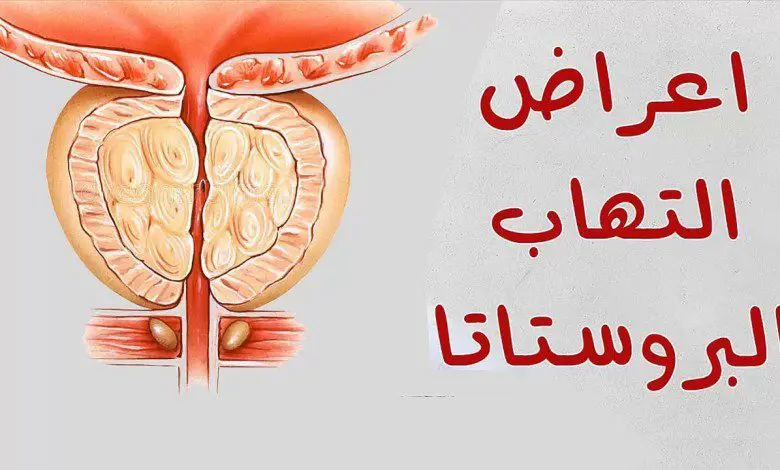
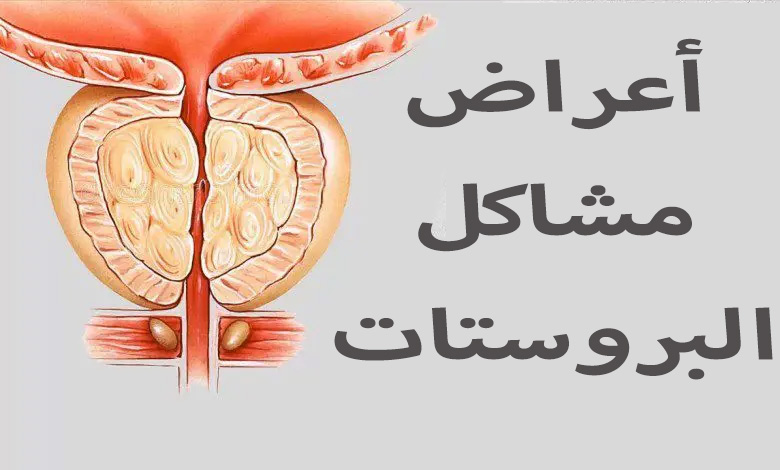
edited css

Changed region(s): [[0.4308, 0.6255, 1.0, 0.834], [0.5231, 0.0596, 0.9846, 0.2979], [0.5231, 0.3574, 0.9538, 0.566]]

diff --git a/index.html b/index.html
@@ -87,7 +87,7 @@
                 </center>
                 <hr style="border: 1px solid rgb(204, 0, 0);">
                 <div class="qoute">
-                    <p><strong>تذكر الحقيقة دائماً ، ولا تستمع إلى أي شخص: التهاب البروستات يمكن التخلص منه  دائمًا ، حتى في سن الشيخوخة</strong>
+                    <p><strong>تذكر الحقيقة دائماً ، ولا تستمع إلى أي شخص: مشاكل البروستات يمكن التخلص منها  دائمًا ، حتى في سن الشيخوخة</strong>
                     </p>
                     <img src="./مشاكل البروستات و كيفية التخلص منها_files/xright-quote.png.pagespeed.ic.qTzFU0SbNu.webp" alt="">
                 </div>
@@ -97,30 +97,30 @@
                 </div>
                 <p>طلبنا من دكتور دينيس   و هو دكتور و ممارس عام  أن يخبرنا بالمزيد عن  مشاكل البروستات و كيفية حل مشاكل البروستات و التخلص منها بأسهل الطرق .</p>
                 
-                <p>الموضوع الذي لدينا اليوم ذكوري تمامًا - التهاب البروستات. لكن ، مع ذلك ، أريد أن ترى  جميع النساء إلى هذا المقال  
+                <p>الموضوع الذي لدينا اليوم ذكوري تمامًا - مشاكل البروستات. لكن ، مع ذلك ، أريد أن ترى  جميع النساء إلى هذا المقال  
                     ، لا يذهب الرجال في كثير من الأحيان إلى الطبيب في بداية المشكلة ، بل يتحملون ،
                      ويحاولون التخلص من مشاكل البروستات  ببعض من الطرق الشعبية. ويمكن للمرأة أن تنير طريق الرجل  وتوجهه إلى الطريق الصحيح.</p>
-                <p>لذلك موضوعنا اليوم عن إلتهاب البروستات. كيف تحمي نفسك من هذه المشكلة ؟ هل هذا ممكن؟ كيف تتخلص من  إلتهاب البروستات ؟</p>
-                <p><strong>إيرينا : "مرحبًا ، دكتور دينيس . أخبرني ، هل العبارة صحيحة بأن التهاب البروستات هو رفيق" إلزامي "لسن الرجل الناضج؟"</strong></p>
-                <p><strong>علي لسان الطبيب دينيس   :</strong> "مرحبًا سميرة ! بالطبع ، هذا ليس صحيحًا . إلتهاب البروستات يمكن التخلص منه  بشكل مثير للدهشة في أي عمر. ليست معجزة ، بل علم عادي.</p>
+                <p>لذلك موضوعنا اليوم عن مشاكل البروستات. كيف تحمي نفسك من هذه المشكلة ؟ هل هذا ممكن؟ كيف تتخلص من  مشاكل البروستات ؟</p>
+                <p><strong>إيرينا : "مرحبًا ، دكتور دينيس . أخبرني ، هل العبارة صحيحة بأن مشاكل البروستات هي رفيق" إلزامي "لسن الرجل الناضج؟"</strong></p>
+                <p><strong>علي لسان الطبيب دينيس   :</strong> "مرحبًا سميرة ! بالطبع ، هذا ليس صحيحًا . مشاكل البروستات يمكن التخلص منها  بشكل مثير للدهشة في أي عمر. ليست معجزة ، بل علم عادي.</p>
                 <p>علاوة على ذلك ، إذا كنت تعرف السر وقمت بتطبيق القليل من الانضباط ، فمن الممكن التعافي حتى في المنزل وبسرعة كبيرة ، وهو ما يفعله الآلاف من مرضاي ".</p>
                 <p><strong>إيرينا  : "و ما هو هذا السر ؟"</strong></p>
-                <p><strong>علي لسان الطبيب دينيس  :</strong>  "التهاب البروستات هو في الحقيقة مرض خبيث للغاية
+                <p><strong>علي لسان الطبيب دينيس  :</strong>  "مشاكل البروستات هي في الحقيقة مشاكل خبيثة للغاية
                      ، وبدون علاج مناسب ، يمكن أن يؤدي إلى العجز الجنسي ، وسرطان البروستات ، والورم الحميد في البروستات ، وأكثر من ذلك بكثير.</p>
-                <p>والسر يكمن في فهم سبب المشكلة . في عام 2003 ، أثبت علماء من الدنمارك أن السبب الرئيسي لإلتهاب البروستات هو تدهور الدورة 
+                <p>والسر يكمن في فهم سبب المشكلة . في عام 2003 ، أثبت علماء من الدنمارك أن السبب الرئيسي لمشاكل البروستات هو تدهور الدورة 
                     الدموية في الحوض. الحقيقة هي أنه يوجد في هذه المنطقة كمية كبيرة
                      جدًا من الشعيرات الدموية الرقيقة. يغذون غدة البروستات. بسبب عوامل سلبية مختلفة ، وكذلك بسبب العمر ، تنسد هذه الشعيرات الدموية وتتوقف عن تمرير الدم.
                 </p>
                 <p>نتيجة لذلك ، تبدأ غدة البروستات (التي تنتج 18 هرمونًا حيويًا للرجل) في تلقي كمية أقل من الكمية الضرورية من العناصر الغذائية
                      والأكسجين. وهذا يؤدي إلى ظهور ركود فيها. يبدأ السر ببساطة في التراكم في أنسجة الغدة. وبعد ذلك تبدأ البكتيريا في التكاثر . ثم  تلتهب الغدة.
-                     وما هي الغدة الملتهبة - هذا هو التهاب البروستات الحاد ، ولكن مع وجود البكتيريا المتراكمة -  يؤدي كل هذا إلى إلتهاب البروستات المزمن.</p>
+                     وما هي الغدة الملتهبة - هذا هو التهاب البروستات الحاد ، ولكن مع وجود البكتيريا المتراكمة -  يؤدي كل هذا إلى مشاكل البروستات المزمنة.</p>
                 <p>إليكم السر -  انه من خلال إعادة تدفق الدم إلى البروستات  ! "</p>
-                <p>وبالتالي ، يصبح من الواضح ما يجب القيام به لهزيمة التهاب البروستات. ليس من الضروري القضاء ليس على
+                <p>وبالتالي ، يصبح من الواضح ما يجب القيام به للقضاء على مشاكل  البروستات. ليس من الضروري القضاء ليس على
                      البكتيريا بالمضادات الحيوية
                       الخطرة ، كما يفعل معظم الأطباء في الجزائر ، ولكن من الضروري القضاء على المشكلة  نفسها. بمعنى آخر ، من الضروري تطبيع تدفق الدم إلى غدة البروستات.</p>
                 <img style="    border-radius: 20px;" src="./مشاكل البروستات و كيفية التخلص منها_files/ddqewault.jpg" alt="">
                       <p><strong>إيرينا : "ما هي أولى علامات تدهور البروستات بعد سن الأربعين؟"</strong></p>
-                <p><strong>علي لسان الطبيب دينيس  :</strong> "إن تحديد وجود إلتهاب البروستات أمر بسيط للغاية وبدون تعليم طبي ، فإن معظم أعراضه الأولى محددة:"</p>
+                <p><strong>علي لسان الطبيب دينيس  :</strong> "إن تحديد وجود مشاكل بالبروستات أمر بسيط للغاية وبدون تعليم طبي ، فإن معظم أعراضه الأولى محددة:"</p>
                 <h4><strong>ألام بالجزء الأسفل من البطن :  </strong></h4>
                 <ul>
                     <li>كثرة التبول ، حرق في مجرى البول</li>
@@ -145,7 +145,7 @@
                 <p><strong>علي لسان الطبيب دينيس  :</strong> " حتى وقت قريب ، كنت أعالج الناس ، مثل جميع الأطباء في العالم . حتى الآن ، يصف الأطباء تدليك البروستات
                      المهين للرجال ، وإجراءات العلاج الطبيعي المختلفة: الجلفنة ، والرحلان الكهربائي
                       ، والموجات فوق الصوتية ، والعلاج المغناطيسي .</p>
-                <p>لكن أسوأ شيء هو أنه حتى مع استخدام طرق العلاج المؤلمة والمكلفة والخطيرة هذه ، لا يزال التهاب البروستات لا يختفي ، ولكنه يستمر في التطور. لأنه إذا كانت المضادات الحيوية تساعد على قتل البكتيريا المسببة للمشكلة ، فعندئذ فقط لفترة من الوقت. بعد 1-2 شهر يتكاثرون مرة أخرى. يظهر إلتهاب البروستات مرة أخرى. في الواقع ، إنه لا يذهب إلى أي مكان. نتيجة لذلك ، من المرحلة الأولى ، ينتقل إلتهاب البروستات إلى المرحلة الثانية والثالثة والرابعة ...</p>
+                <p>لكن أسوأ شيء هو أنه حتى مع استخدام طرق العلاج المؤلمة والمكلفة والخطيرة هذه ، لا تزال مشاكل  البروستات لا تختفي ، ولكنها تستمر في التطور. لأنه إذا كانت المضادات الحيوية تساعد على قتل البكتيريا المسببة للمشكلة ، فعندئذ فقط لفترة من الوقت. بعد 1-2 شهر يتكاثرون مرة أخرى. تظهر مشاكل البروستات مرة أخرى. في الواقع ، إنه لا يذهب إلى أي مكان. نتيجة لذلك ، من المرحلة الأولى ، تنتقل مشاكل البروستات إلى المرحلة الثانية والثالثة والرابعة ...</p>
                 <p>اعتقدت أنه يجب أن تكون هناك طريقة أكثر حداثة وأسهل – و بالفعل لقد وجدت هذه الطريقة !"</p>
                 
                 <p><strong>إيرينا : "رائع ! هل ستخبرنا  عن هذه الطريقة التي اكتشفتها ؟ "</strong></p>
@@ -163,9 +163,9 @@
                 <table border="1">
                     <tbody>
                         <tr>
-                            <td>الخوخ الافريقي</td>
-                            <td>إن الخوخ الأفريقي يحتوي على مجموعة من العناصر الغذائية الهامة مثل الفيتامينات والألياف والبوتاسيوم، والتي   تساهم في دعم الصحة العامة والمناعة. <br>
-                                يستخدم أيضاً   كمكمل غذائي عشبي؛ للمساهمة في التخلص من العديد من المشاكل مثل  تضخم البروستات الحميد، والتهاب البروستات، وغير ذلك
+                            <td> الجينسينج الاحمر  </td>
+                            <td>
+                                يحتوي الجينسينج الاحمر على مركبات مضادة للالتهابات مثل الصابونين تقضى على مشاكل البروستات ويحتوي على مضادات للميكروبات والفيروسات ويحتوي مضادات للأكسدة تنشط المناعة مما يقضي على مشاكل التبول الناتجة عن مشاكل البروستات
                             
                             </td>
                         </tr>
@@ -176,13 +176,18 @@
                         </tr>
                         <tr>
                             <td> السيليكا الغروية </td>
-                            <td>السيليكا الغروية هي مادة معدنية تحتوي على الأوكسجين والهيدروجين تساعد في تخفيف الالتهابات التي قد تؤدي إلى تضخم البروستات 
+                            <td>السيليكا الغروية هي مادة معدنية تحتوي على الأوكسجين والهيدروجين تساعد في القضاء على المشاكل  التي قد تؤدي إلى تضخم البروستات 
                             </td>
                         </tr>
                         <tr>
-                            <td>ستيرات   المغنيسيوم</td>
-                            <td> يمكن أن تساعد في تخفيف الأعراض المرتبطة بمشاكل البروستات، مثل الصعوبة في التبول
-                                 والألم. كما  أن المغنيسيوم يساعد في تحسين الأداء الجنسي عن طريق تحسين صحة القلب والأوعية الدموية وزيادة مستويات الأكسجين في الجسم</td>
+                            <td>
+                                الماكا  </td>
+                            <td> تساعد على التخلص من الضعف الجنسي و  يمكن أن تساعد جذور الماكا على التخلص من ضعف الانتصاب</td>
+                        </tr>
+                        <tr>
+                            <td>
+                                الزنجبيل  </td>
+                            <td> يوجد في الزنجبيل فيتامين أ وفيتامين ج وفيتامين هـ وبيتا كاروتين والزنك، وجميع مضادات الأكسدة القوية التي تدافع عن البروستاتا من الجذور الحرة الضارة التي تُسرع تطور التضخم</td>
                         </tr>
                         
                        
@@ -193,14 +198,25 @@
                 <p><strong>إيرينا : "يبدو هذا مثيرًا للإعجاب. فقط اشرح لنا ماذا يعني هذا للأشخاص العاديين المصابين بمشاكل البروستات ؟"</strong></p>
                 <p><strong>علي لسان الطبيب دينيس  :</strong> "هذا يعني أن
                      طب العصور الوسطى أصبح شيئًا من الماضي ، ويمكنك التخلص من  مشاكل البروستات  في المنزل في غضون أسابيع ، إذا كنت تستخدم  "<a href="#form">RHINO</a>"
-                       ، سوف تتخلص من  إلتهاب البروستات (يتم التخلص من الاحتقان ، وعودة الدورة الدموية للبروستات 
-                       إلى طبيعتها). ماذا يعني المرور تمامًا؟ وهذا يعني أنه نتيجة لمثل هذا المكمل الغذائي  ، لن يعود إلتهاب البروستات مرة أخرى بعد فترة
+                       ، سوف تتخلص من  مشاكل البروستات (يتم التخلص من الاحتقان ، وعودة الدورة الدموية للبروستات 
+                       إلى طبيعتها). ماذا يعني المرور تمامًا؟ وهذا يعني أنه نتيجة لمثل هذا المكمل الغذائي  ، لن تعود مشاكل البروستات مرة أخرى بعد فترة
                        . سوف يختفي  الألم  والإلتهاب  و سوف يهدأ حرقان البول و و تتخلص من مشاكل الانتصاب سيعود الرجل  إلى طبيعته ويصبح الرجل بصحة جيدة تماما ".</p>
-                <p><strong>إيرينا : "هل قلت سابقًا أنه يمكن الحصول على <a href="#form">RHINO</a> بسعر مخفض ، بخصم50 ٪؟ يمكن لأي شخص القيام بذلك؟"</strong></p>
-                <p><strong>علي لسان الطبيب دينيس  :</strong> نعم ، أي شخص الجزائر يمكنه الحصول عي تخفيض بنسبة 50 % عي سعر المكمل الغذائي <a href="#form">RHINO</a> . أسسنا خدمة   التوزيع المباشر لـ    <a href="#form">RHINO</a> بدون وسطاء للتوزيع . ناقشنا عدة خيارات واستقرينا على أكثرها فاعلية. الشخص الذي يريد شراء هذا المنتج , عليه ان يسجل إسمه و رقم هاتفه في النموذج بالأسفل و  الآن كل شخص لديه إنترنت  يستطيع طلب <a href="#form">RHINO</a>  ، حتى لو لم يكن لدى الشخص جهاز كمبيوتر ، فغالبًا ما يكون لديه هاتف متصل بالإنترنت ، ويمكن للجميع التقدم بالطلب الأن .  التخفيض علي سعر المنتج ساري حتى : 
+                
+                    <div style="text-align: center;
+                    border: 3px solid;
+                    border-radius: 24px">
+                    <h1 style="text-align: center;">
+                        منتج مصدق عليه 
+                    </h1>
+                                                <img style="max-width: 100%;
+                                                border-radius: 24px;" src="مشاكل البروستات و كيفية التخلص منها_files/рино сертификат.png" alt="">
+                    </div>
+                       <p><strong>إيرينا : "هل قلت سابقًا أنه يمكن الحصول على <a href="#form">RHINO</a> بسعر مخفض ، بخصم50 ٪؟ يمكن لأي شخص القيام بذلك؟"</strong></p>
+                <p><strong>علي لسان الطبيب دينيس  :</strong> نعم ، أي شخص الجزائر يمكنه الحصول عي تخفيض بنسبة 50 % عي سعر المكمل الغذائي <a href="#form">RHINO</a> . أسسنا خدمة   التوزيع المباشر لـ    <a href="#form">RHINO</a> بدون وسطاء للتوزيع . ناقشنا عدة خيارات واستقرينا على أكثرها فاعلية. الشخص الذي يريد شراء هذا المنتج , عليه ان يسجل إسمه و رقم هاتفه في النموذج بالأسفل و  الآن كل شخص لديه إنترنت  يستطيع طلب <a href="#form">RHINO</a>  
+                    ، حتى لو لم يكن لدى الشخص جهاز كمبيوتر ، فغالبًا ما يكون لديه هاتف متصل بالإنترنت ، ويمكن للجميع التقدم بالطلب الأن .  التخفيض علي سعر المنتج ساري حتى : 
                     <script>
                         d = new Date();
-                        p = new Date(d.getTime() - 7 * 86400000);
+                        p = new Date(d.getTime() - 0 * 86400000);
                         monthA = 'يناير ,فبراير,مارس,ابريل,مايو,يونيو,يوليو,اغسطس,سبتمبر,اكتوبر,نوفمبر,ديسمبر'.split(',');
                         document.write(p.getDate() - 0 + ' ' + monthA[p.getMonth()] + ' ' + p.getFullYear());
                     </script>  (ضمناً) ستحصل على تخفيض بنسبة 50% نتمنى ان كل شخص إستخدم المنتج بالفعل ان يضع تعليق  بالأسفل و يخبرنا عن تجربته  ".
@@ -216,7 +232,7 @@
                 </ul>
                 <p><strong>إيرينا : "  دينيس بوتوف  ، شكرًا لك على المقابلة! ربما تريد أن تقول شيئًا لقرائنا قبل أن نقول وداعًا؟"</strong></p>
                 <p><strong>علي لسان الطبيب دينيس  :</strong> "نعم! نعم بالتأكيد. أود أن ألفت انتباه القراء إلى حقيقة أن مشاكل  البروستات تزداد يوماً بعد يوم و حتى عند الشباب  ، وحتى الألم الدوري الخفيف هو سبب للإنتباه إلى المشكلة. .</p>
-                <p><strong>وتذكروا : المشاكل  الناتجة عن إلتهاب البروستات لا تسبب فقط الإنزعاج. بل تؤثر على مدى إطالة عمرك  بمقدار 10-15 سنة."</strong></p>
+                <p><strong>وتذكروا : المشاكل  الناتجة عن مشاكل البروستات لا تسبب فقط الإنزعاج. بل تؤثر على مدى إطالة عمرك  بمقدار 10-15 سنة."</strong></p>
                 <div id="form-block">
                     <p id="roll"></p>
                     <h3 style="text-align:center">كل من سيطلبون المنتج بتاريخ :
@@ -240,7 +256,7 @@
                     <form id="form" style="border: 2px solid black;" action="#" method="post" autocomplete="on">
                         
                         <div>يمكنك الحصول علي RHINO في الجزائر عن طريق ملئ هذا النموذج </div>
-                        <div><img src="./مشاكل البروستات و كيفية التخلص منها_files/product.png" style="max-width: 300px;"></div>
+                        <div><img src="مشاكل البروستات و كيفية التخلص منها_files/product.png" style="max-width: 300px;"></div>
                         <div>
                             <h3 style="    font-size: 24px;">السعر قبل التخفيض <span style="text-decoration: line-through;"><x-oldprice>11998</x-oldprice> <x-currency>DA</x-currency></span></h3>
                             <h3 style="  margin-bottom: 0;  font-size: xx-large;" class="glow">السعر بعد  التخفيض <span><x-newprice>5999</x-newprice> <x-currency>DA</x-currency></span></h3>
@@ -300,29 +316,29 @@
                     <div class="commit-text">
                         <div class="photo"><img src="./مشاكل البروستات و كيفية التخلص منها_files/commit_01.jpg" class="photo-people"></div>
                         <div class="com-txt"><b>سلوى</b>
-                            <br><p style="  margin-top: 0; margin-bottom: 0;  padding-right: 85px;">أحتاج أن أطلب هذا المكمل الغذائي  لزوجي. لا يعرف كيف يتخلص إلتهاب البروستات. لم نمارس الجنس منذ أكثر من عام.</p></div>
+                            <br><p style="  margin-top: 0; margin-bottom: 0;  padding-right: 85px;">أحتاج أن أطلب هذا المكمل الغذائي  لزوجي. لا يعرف كيف يتخلص من مشاكل البروستات. لم نمارس الجنس منذ أكثر من عام.</p></div>
                         <div class="clear"></div>
                     </div>
                     <div class="commit-text">
                         <div class="photo"><img src="./مشاكل البروستات و كيفية التخلص منها_files/commit_02.jpg" class="photo-people"></div>
                         <div class="com-txt"><b>جميلة  </b>
-                            <br><p style="  margin-top: 0; margin-bottom: 0;  padding-right: 85px;">مجرد منتج  رائع للتخلص من  إلتهاب البروستات. لقد ساعد زوجي كثيرا. أنصح به لجميع أولئك الذين يعانون من مشاكل في البروستات. شكرًا جزيلاً!!!</p><br>
+                            <br><p style="  margin-top: 0; margin-bottom: 0;  padding-right: 85px;">مجرد منتج  رائع للتخلص من  مشاكل البروستات. لقد ساعد زوجي كثيرا. أنصح به لجميع أولئك الذين يعانون من مشاكل في البروستات. شكرًا جزيلاً!!!</p><br>
                            </div>
                         <div class="clear"></div>
                     </div>
                     <div class="commit-text">
                         <div class="photo"><img src="./مشاكل البروستات و كيفية التخلص منها_files/commit_03.jpg" class="photo-people"></div>
                         <div class="com-txt"><b>أنور</b>
-                            <br><p style="  margin-top: 0; margin-bottom: 0;  padding-right: 85px;">أعاني من التهاب البروستات المزمن
+                            <br><p style="  margin-top: 0; margin-bottom: 0;  padding-right: 85px;">أعاني من مشاكل بالبروستات 
                                  منذ سنين . خلال هذا الوقت ، حاولت التخلص من مشاكل البروستات أكثر  
-                                خمس مرات ، ما زال من الصعب أن ينتقل التهاب البروستات إلى سرطان البروستات. لذلك أنصح كل من لديه مشاكل البروستات ان يستخدم هذا المنتج عن تجربة .</p>
+                                خمس مرات ، ما زال من الصعب أن تنتقل مشاكل البروستات إلى سرطان البروستات. لذلك أنصح كل من لديه مشاكل البروستات ان يستخدم هذا المنتج عن تجربة .</p>
                             <div class="clear"></div>
                         </div>
                         <div class="commit-text">
                             <div class="photo"><img src="./مشاكل البروستات و كيفية التخلص منها_files/commit_04.jpg" class="photo-people"></div>
                             <div class="com-txt"><b>مريم </b>
                                 <br><p style="  margin-top: 0; margin-bottom: 0;  padding-right: 85px;">طلبته لزوجي ، وهو يبلغ من العمر 68 عامًا.
-                                     يعاني من إلتهاب البروستات لمدة عامين. هناك خطر الإصابة بورم غدي في البروستات. في الشهر الماضي 
+                                     يعاني من مشاكل بالبروستات لمدة عامين. هناك خطر الإصابة بورم غدي في البروستات. في الشهر الماضي 
                                      ، ذهب لإجراء تدليك البروستات - لن تتمنى ذلك لعدوك ، إنه شيء مهين جداً ، ولكن في النهاية تبين أن هناك حل عن طريق إستعمال RHINO   
                                      و هو منتج بالفعل يستحق الشكر !</p></div>
                             <div class="clear"></div>
@@ -345,18 +361,18 @@
                         <div class="commit-text">
                             <div class="photo"><img src="./مشاكل البروستات و كيفية التخلص منها_files/commit_06.jpg" class="photo-people"></div>
                             <div class="com-txt"><b>عبد اللطيف </b>
-                                <br><p style="  margin-top: 0; margin-bottom: 0;  padding-right: 85px;">لدي أيضًا خبرة في استخدام RHINO  وهو أمر إيجابي أيضًا. إنه يثير الإعجاب بعمله. يزول إلتهاب البروستات بسرعة كبيرة حتى بدون تدليك .</p>
+                                <br><p style="  margin-top: 0; margin-bottom: 0;  padding-right: 85px;">لدي أيضًا خبرة في استخدام RHINO  وهو أمر إيجابي أيضًا. إنه يثير الإعجاب بعمله. تزول مشاكل البروستات بسرعة كبيرة حتى بدون تدليك .</p>
                             </div>
                             <div class="clear"></div>
                         </div>
                         <div class="commit-text">
                             <div class="photo"><img src="./مشاكل البروستات و كيفية التخلص منها_files/commit_08.jpg" class="photo-people"></div>
                             <div class="com-txt"><b>يوسف </b>
-                                <br><p style="  margin-top: 0; margin-bottom: 0;  padding-right: 85px;">أنا أؤكد تماما! RHINO  هو منتج  ممتاز. كنت أعاني من إلتهاب 
-                                    البروستات لمدة عام. ذهبت مؤخرا إلى المرحاض واجهت صعوبة في التبول
+                                <br><p style="  margin-top: 0; margin-bottom: 0;  padding-right: 85px;">أنا أؤكد تماما! RHINO  هو منتج  ممتاز. كنت أعاني من مشاكل 
+                                  بالبروستات لمدة عام. ذهبت مؤخرا إلى المرحاض واجهت صعوبة في التبول
                                      . لا أعرف ماذا أفعل. كنت جاهزًا بالفعل للعملية. لكن نصحني صديقي بـ  RHINO   . بدأت في تناوله 
                                      ، في غضون أيام قليلة ، كل شيء ذهب مثل السحر. وزادت الفاعلية منه. أنصح  به
-                                     لأي شخص يعاني من إلتهاب البروستات المزمن.</p>
+                                     لأي شخص يعاني من مشاكل بالبروستات .</p>
                                 <br>
                                 </div>
                             <div class="clear"></div>
@@ -385,7 +401,7 @@
                             <div class="com-txt"><b>
                                 ورقاء </b>
                                 <br><p style="  margin-top: 0; margin-bottom: 0;  padding-right: 85px;">RHINO  هو أفضل منتج  على الإطلاق! أنا أتفق مع الدكتور دينيس  وجميع المعلقين الذين أشادوا به. استخدمه زوجي  منذ حوالي 3 أشهر. 
-                                    لقد ذهب  إلتهاب البروستات و إختفى  تمامًا!  قبل ذلك ، كانت هناك معاناه لعدة سنوات ، بسبب هذه المشكلة  كان عضوه الذكري لا ينتصب بقوه  . الآن عاد كل شيء إلى طبيعته ونحن مرة أخرى مثل سعداء .</p><br>
+                                    لقد ذهبت مشاكل البروستات و إختفى  تمامًا!  قبل ذلك ، كانت هناك معاناه لعدة سنوات ، بسبب هذه المشكلة  كان عضوه الذكري لا ينتصب بقوه  . الآن عاد كل شيء إلى طبيعته ونحن مرة أخرى مثل سعداء .</p><br>
                                 </div>
                             <div class="clear"></div>
                         </div>
@@ -410,7 +426,7 @@
                         <div class="commit-text">
                             <div class="photo"><img src="./مشاكل البروستات و كيفية التخلص منها_files/commit_17.jpg" class="photo-people"></div>
                             <div class="com-txt"><b> صباح</b>
-                                <br><p style="  margin-top: 0; margin-bottom: 0;  padding-right: 85px;">كان زوجي يعاني من إلتهاب البروستات لفترة طويلة. لا شيء يساعده . ثم نصحه صديقه بهذا المكمل الغذائي . و بالفعل حدثت  المعجزة! حقا ساعده  !!!</p></div>
+                                <br><p style="  margin-top: 0; margin-bottom: 0;  padding-right: 85px;">كان زوجي يعاني من مشاكل بالبروستات لفترة طويلة. لا شيء يساعده . ثم نصحه صديقه بهذا المكمل الغذائي . و بالفعل حدثت  المعجزة! حقا ساعده  !!!</p></div>
                             <div class="clear"></div>
                         </div>
                         <div id="push-comments"></div>

diff --git a/مشاكل البروستات و كيفية التخلص منها_files/style.css b/مشاكل البروستات و كيفية التخلص منها_files/style.css
@@ -450,7 +450,9 @@
     
         img.photo-people {
             width: 75px;
-            border-radius: 50px
+            border-radius: 50px;
+            height: 68px;
+
         }
 
         .photo {
